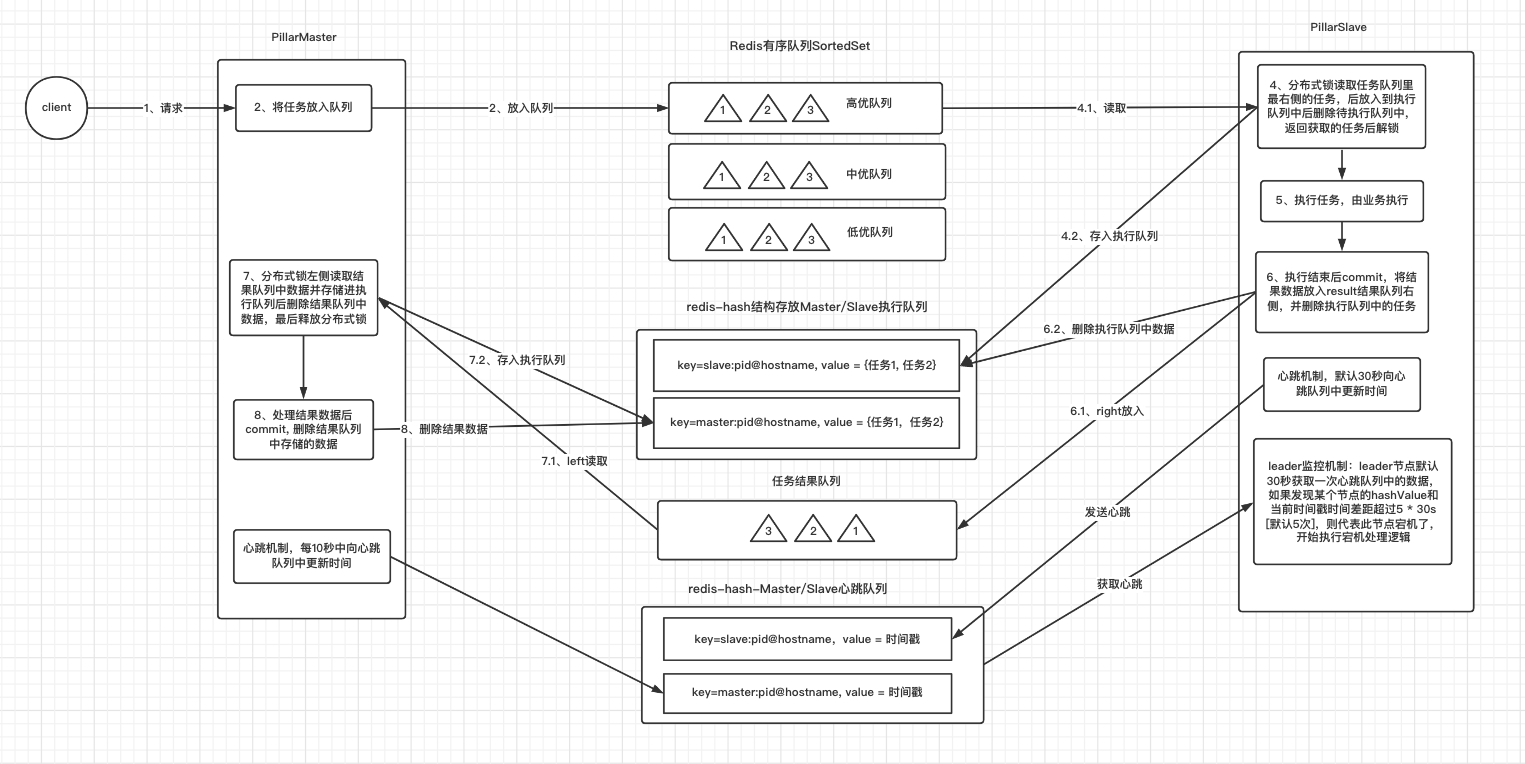
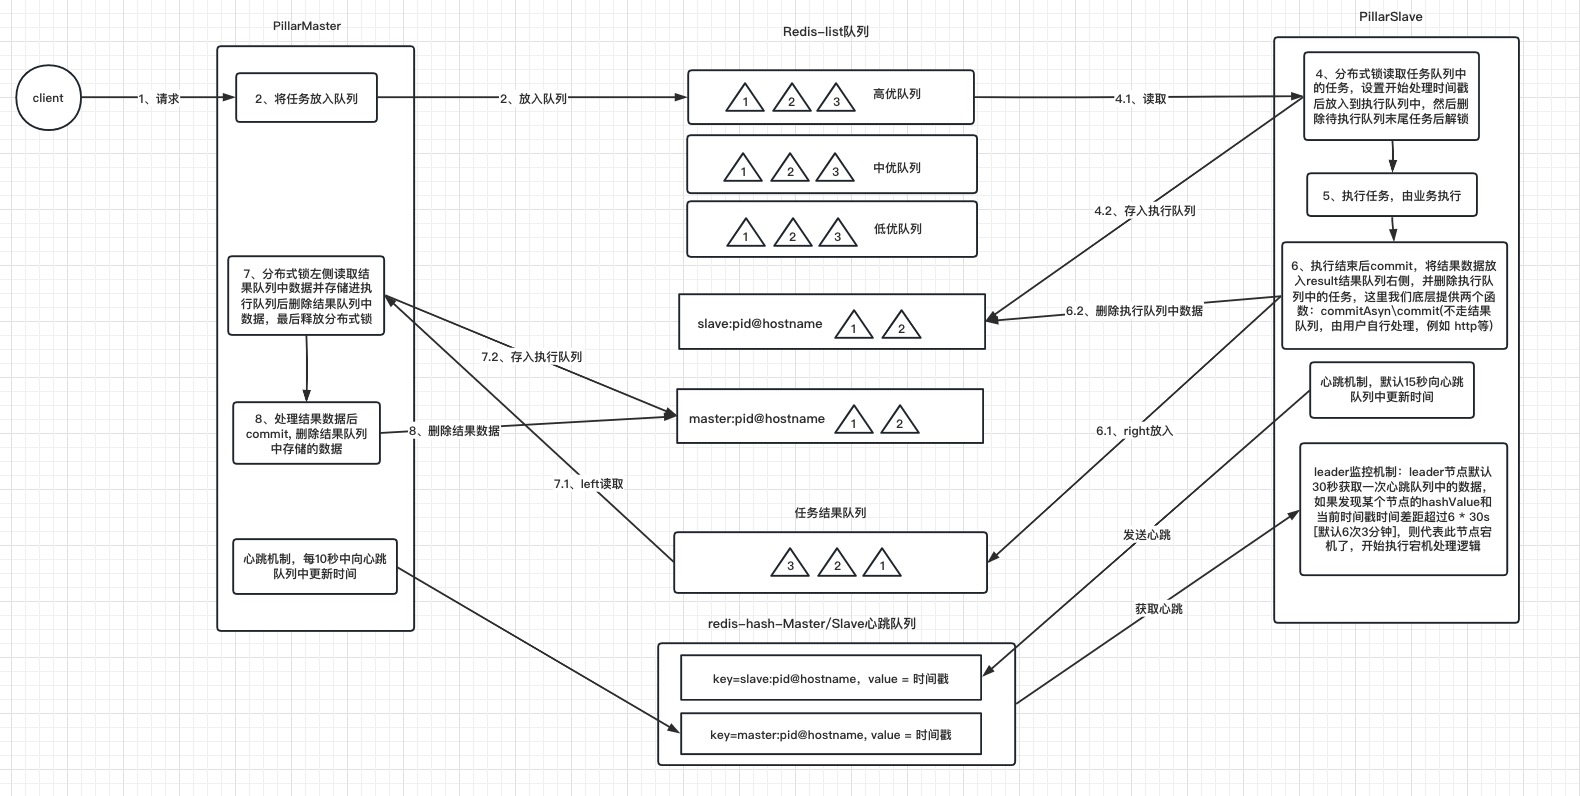
[master][2.0]设计优化-待完成

diff --git a/pillar-core/src/main/java/org/pillar/core/enums/CommonConstants.java b/pillar-core/src/main/java/org/pillar/core/enums/CommonConstants.java
@@ -34,8 +34,8 @@ public enum CommonConstants {
     public static final String REDIS_SPLIT = ":";
 
     public static final long MILLISECOND = 1000;
-    public static final long HEARTBEAT_INTERVAL = 30 * 1000;
-    public static final long MIN_HEARTBEAT_INTERVAL = 10 * 1000;
+    public static final long HEARTBEAT_INTERVAL = 30 * MILLISECOND;
+    public static final long MIN_HEARTBEAT_INTERVAL = 10 * MILLISECOND;
     public static final int EXPIRATION_COUNT = 6;
     public static final int MIN_EXPIRATION_COUNT = 3;
     public static final int FIRST = 1;
@@ -45,9 +45,19 @@ public enum CommonConstants {
     public static final int FIFTH = 5;
     public static final int SIXTH = 6;
     public static final int SEVENTH = 7;
+    public static final int EIGHT = 7;
     public static final int TENTH = 10;
     public static final int ZERO = 0;
     public static final int END_INDEX = -1;
+    public static final double DOUBLE_FIRST = 1.0;
+
+    public static final long OHOURS = 60 * 60;
+    public static final long THOURS = OHOURS * SECOND;
+    public static final long FHOURS = OHOURS * FOURTH;
+    public static final long SHOURS = OHOURS * SIXTH;
+    public static final long EHOURS = OHOURS * EIGHT;
+    public static final long HALFDAY = OHOURS * TENTH * SECOND;
+    public static final long DAYDAY = HALFDAY * SECOND;
 
     public static final boolean FALSE = false;
     public static final boolean TRUE = true;

diff --git a/pillar-service/src/main/java/org/pillar/service/leader/impl/LeaderServiceImpl.java b/pillar-service/src/main/java/org/pillar/service/leader/impl/LeaderServiceImpl.java
@@ -95,6 +95,8 @@ public class LeaderServiceImpl implements LeaderService {
                     throw new PillarHashPrefixException(String.format("executeHash key prefix is not present, key: %s", k));
                 }
                 redissonUtils.hdel(context.executeHash(), k);
+                // 假设redis宕机后重启，这期间所有的executor的heart都过期了，leader的监听就会开始工作然后将heartHash删除
+                // 不过没关系，executor还会间隔一段时间后重新注册
                 redissonUtils.hdel(context.heartHash(), k);
                 log.warn("node downtime processing Successful, delete old executeHash: {}, delete old heartKey: {}, ", k, k);
             }
@@ -119,6 +121,7 @@ public class LeaderServiceImpl implements LeaderService {
         log.warn("slave node downtime processing end, value: {}, score: {} to hignQueue: {}", value, zmax, context.hignQueue());
     }
 
+    // TODO:需要包裹异常，因如果redis宕机异常，此线程不可中断，仍需发送心跳直到redis恢复;
     public void process(ProcessLambda lambda) {
         while (!stopper.get()) {
             lambda.process();

diff --git a/pillar-core/src/main/java/org/pillar/core/model/PEvent.java b/pillar-core/src/main/java/org/pillar/core/model/PEvent.java
@@ -1,0 +1,41 @@
+package org.pillar.core.model;
+
+import lombok.Builder;
+import lombok.Data;
+import lombok.NonNull;
+import org.pillar.core.enums.OverTime;
+import org.pillar.core.enums.QueueType;
+
+import static org.pillar.core.enums.CommonConstants.*;
+
+/**
+ * Author: GL
+ * Date: 2022-10-31
+ */
+@Data
+@Builder
+public class PEvent<E> implements Event<E> {
+    @NonNull
+    private E value;
+    @Builder.Default
+    private double score = DOUBLE_FIRST;
+    @Builder.Default
+    private QueueType queue = QueueType.MEDIUM;
+    @Builder.Default
+    private long creatTime = EXPIRATION_COUNT;
+    // 单位秒
+    // 放入待执行队列时间
+    private long queueTime;
+    // 放入执行队列时间
+    private long execTime;
+    // 放入结果队列时间
+    private long resQueueTime;
+    // 放入结果队列执行时间
+    private long resExecTime;
+    // 执行队列超时时间
+    @Builder.Default
+    private long execOverTime = OverTime.SHOURS.getOverTime();
+    // 结果执行队列超时时间
+    @Builder.Default
+    private long resExecOverTime = OverTime.OHOURS.getOverTime();
+}

diff --git a/pillar-core/src/main/java/org/pillar/core/enums/OverTime.java b/pillar-core/src/main/java/org/pillar/core/enums/OverTime.java
@@ -1,0 +1,25 @@
+package org.pillar.core.enums;
+
+import lombok.Getter;
+
+/**
+ * Author: GL
+ * Date: 2022-04-01
+ */
+@Getter
+public enum OverTime {
+    // 单位秒
+    OHOURS(CommonConstants.OHOURS),
+    THOURS(CommonConstants.THOURS),
+    FHOURS(CommonConstants.FHOURS),
+    SHOURS(CommonConstants.SHOURS),
+    EHOURS(CommonConstants.EHOURS),
+    HALFDAY(CommonConstants.HALFDAY),
+    DAYDAY(CommonConstants.DAYDAY);
+
+    private final long overTime;
+
+    OverTime(long overTime) {
+        this.overTime = overTime;
+    }
+}

diff --git a/pillar-core/src/main/java/org/pillar/core/model/Event.java b/pillar-core/src/main/java/org/pillar/core/model/Event.java
@@ -1,0 +1,11 @@
+package org.pillar.core.model;
+
+/**
+ * Author: GL
+ * Date: 2022-10-31
+ */
+public interface Event<E> {
+
+
+
+}

diff --git a/README.md b/README.md
@@ -2,9 +2,9 @@
 
 ## 简介
 
-	pillar是基于redis的分布式主从任务分配通用框架, 主要解决master/slave之间任务分配, 心跳机制, 宕机处理, 异步执行的通用框架, 支持高可用, 高可靠。
+	pillar是基于redis的分布式主从任务分配通用框架, 主要解决分布式服务之间: 任务分配, 心跳机制, 宕机处理, 异步执行的通用框架, 支持高可用, 高可靠。
 
-	由于pillar是基于redis, 故master/slave无需知道对方的ip端口, 只需通过redis队列进行任务发放和消费即可, 开发人员只需着重于业务开发, 无需考虑master/slave节点宕机后的处理, 也无需考虑分布式锁等问题。
+	由于pillar是基于redis, 故服务与服务之间无需知道对方的ip端口, 只需通过redis队列进行任务发放和消费即可, 开发人员只需着重于业务开发, 无需考虑主从节点宕机后的处理, 也无需考虑分布式锁等问题。
 
 	此框架目标是希望所有想实现master/slave任务分配架构的项目无需再造轮子, 只需要基于pillar之上开发即可。
 
@@ -409,7 +409,11 @@ public class TestConfiguration {
 
 1、PillarConfig中的prefix参数极为重要, 此参数代表pillar项目中所有内置redis-key的前缀, 故master和slave要的prefix要保持一致，否则会造成队列不一致从而导致消费不到或注册不到心跳；
 
-	若想在一个服务中使用多个不同的master/slave，则可以创建多个不同prefix参数的pillarConfig，然后创建master/slave。
+	若想在一个服务中使用多组不同的master/slave，则可以创建多个不同prefix参数的pillarConfig，然后创建master/slave。
+
+	注意：pillar默认是运行在分布式服务上的，若运行在单个服务器上则无法保证可靠性，因leader只有一个，单服务宕机后则无法监控；
+
+	此外由于pillar的心跳机制是根据pid@hostname为key的，故如果单服务器上的启动多个pillarSlave则心跳机制会失效，因其key完全一致，此问题会在pillar2.0版本解决。
 
 2、pillarMaster/pillarSlave 的consume消费接口调用一次便会消费一次，若不调用则永不消费，故开发人员可以在外部设置线程池和并发数来调用slave的consume接口, 自行控制消费速度。
 
